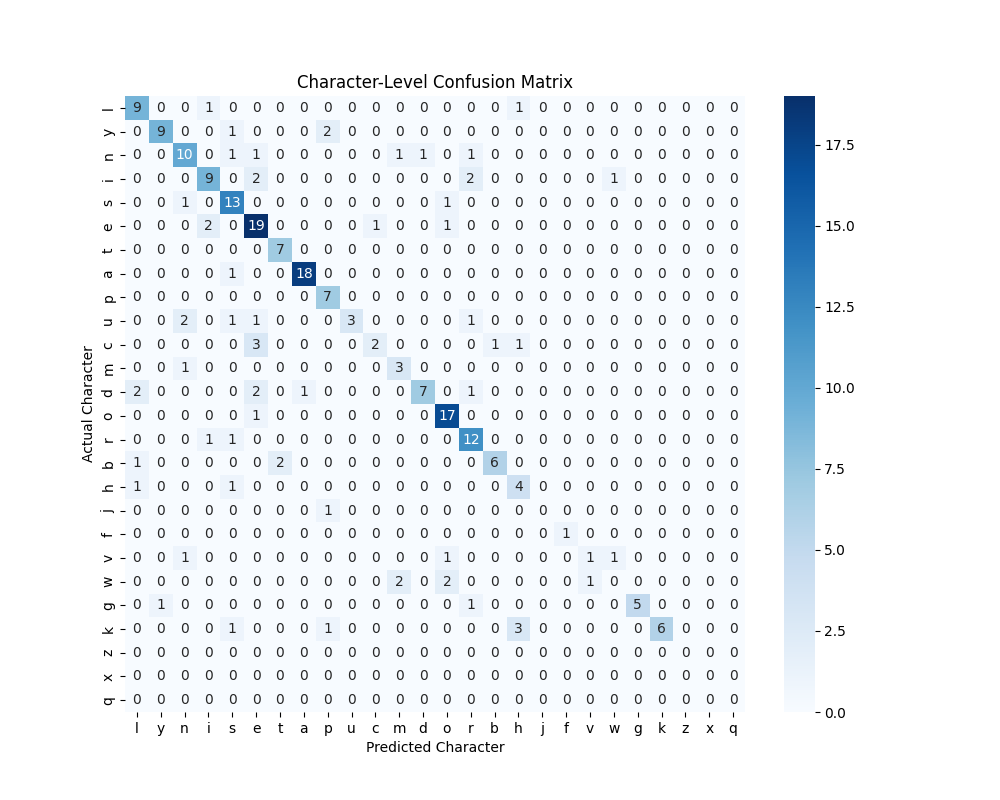
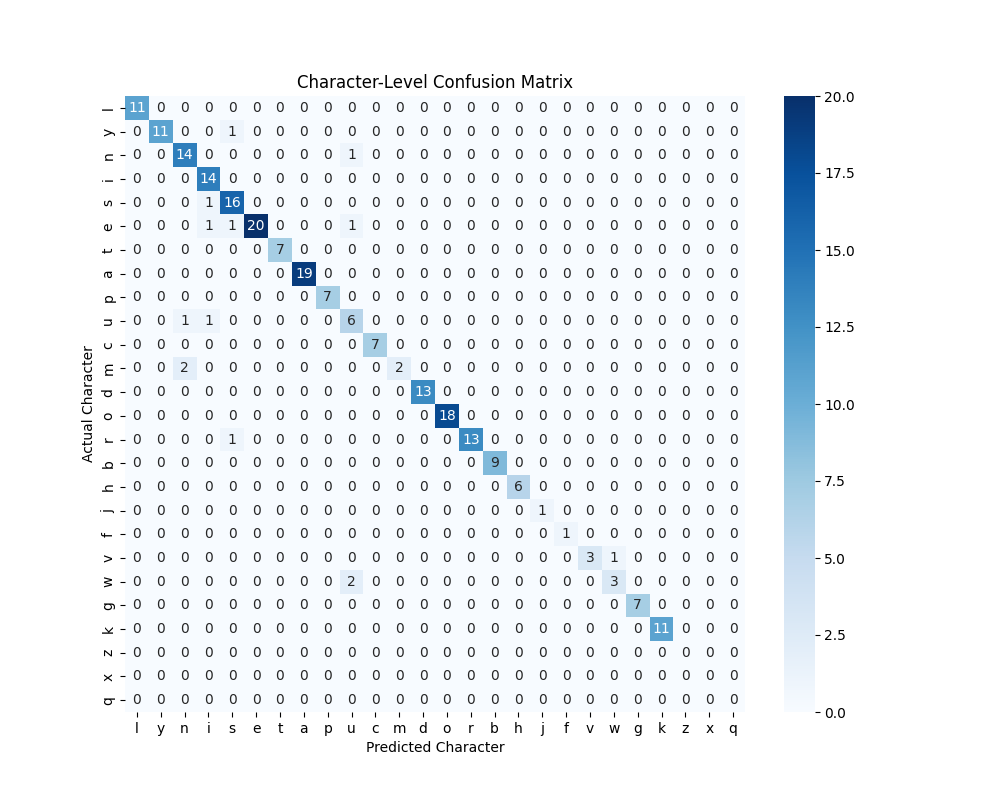
Fin

diff --git a/problematique/main.py b/problematique/main.py
@@ -29,13 +29,10 @@ if __name__ == '__main__':
     # TODO
     n_epochs = 150
     n_samp = 5000
-    learning_rate = 0.002
+    learning_rate = 0.006
     n_layers = 1
     hidden_dim = 25
-    # hidden_dim = 36 (for bidirectional)
-
-    if bidirectional:
-        hidden_dim = hidden_dim / 2
+    # hidden_dim = 16 # (for bidirectional)
 
     # ---------------- Fin Paramètres et hyperparamètres ----------------#
 
